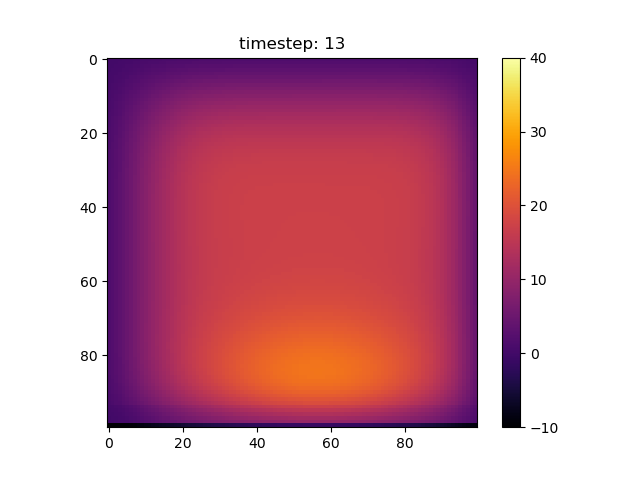
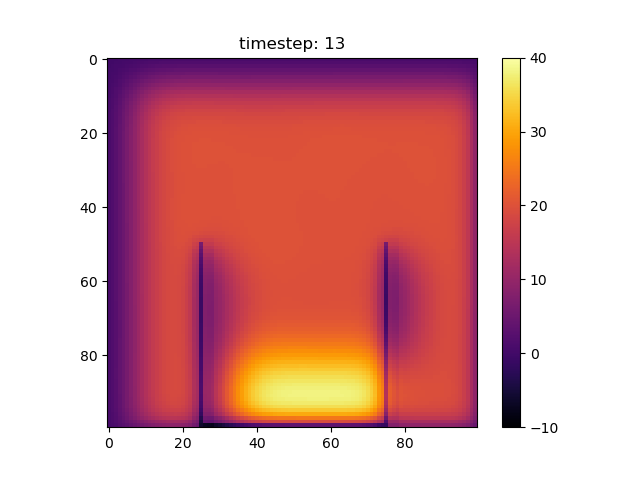
drifting persists

Changed region(s): [[0.1562, 0.1562, 0.75, 0.9062]]

diff --git a/physics.py b/physics.py
@@ -41,7 +41,7 @@ def timestepper(t,timesteps, in_raster, container_temp, filling_height, fill_tem
             plotter(filepath,raster,upper,lower,t)
 
         else:
-            print("Calculating diffusion...")
+            print("Calculating diffusion at step {}...".format(t))
 
             # calculate temperature diffusion
             raster = diffusion(raster, resX, resY, diffusion_index, container_temp, loss_over_time, t, diffusion_degree)
@@ -54,7 +54,6 @@ def timestepper(t,timesteps, in_raster, container_temp, filling_height, fill_tem
         t += 1
 
     return out_rasters
-
 
 
 # set up environmental raster
@@ -254,8 +253,8 @@ def diffusion(in_raster, resX, resY, diffusion_index, container_temp, loss_over_
 
     #set up a temporary raster to allow for energy transfer and pad the array to account for external influence
     temporary_raster = np.zeros(shape=(resX,resY))
-    temporary_raster[1:-1, 1:-1] = 0
-    temporary_raster[-1] = container_temp
+    #temporary_raster[1:-1, 1:-1] = 0
+    #temporary_raster[-1] = container_temp
 
 
     #loop through and calculate energy transfer per cell
@@ -267,21 +266,19 @@ def diffusion(in_raster, resX, resY, diffusion_index, container_temp, loss_over_
         #loop through columns
         while x < resY:
 
-            temporary_raster = decider_diffusion_temp(in_raster,temporary_raster,x,y, diffusion_index, diffusion_degree)
+            decider_diffusion_temp(in_raster,temporary_raster,x,y, diffusion_index, diffusion_degree)
 
             x+=1
 
-        #cooling = coolingRaster(resX, resY, container_temp)
-        #temporary_raster = np.add(temporary_raster, cooling)
+
         y+=1
 
-
-
-    # pad again
-    #temporary_raster[-1] = container_temp
-
-
     # add in_raster to temporary raster to compute diffusion of energy
+    temporary_raster = np.add(in_raster, temporary_raster)
+
+    cooling = coolingRaster(resX, resY, container_temp)
+    temporary_raster = np.add(temporary_raster, cooling)
+
 
     return temporary_raster
 
@@ -314,36 +311,28 @@ def decider_diffusion_temp(in_raster, temporary_raster, x, y, diffusion_index, d
 
     #get how many are legal (within bounds)
     division = len(neighs)
+    diff = pixel - (pixel * diffusion_index)
 
-    diff = ((1 - diffusion_index) * pixel) / division
-
-
+    #check that a double minus is not converted to plus
+    if diff < 0 and temporary_raster[x, y] <0:
+        temporary_raster[x,y] += diff
+    else:
+        temporary_raster[x,y] -= diff
 
     #diffuse
     for neigh in neighs:
+
         try:
-            if neigh[1] < 0 or neigh[1] < 0:
-                "pixel outta bounds 1"
-                pass
-            elif neigh[0] > res or neigh[1] > res:
-                "pixel outta bounds 2"
-                pass
+            #if index of target cell is in bounds, add diffusion value
+            temporary_raster[neigh[0], neigh[1]] += diff/division
 
-            else:
-                try:
-                    #if index of target cell is in bounds, add diffusion value
-                    temporary_raster[neigh[0], neigh[1]] += diff
+            # subtract diffusion value from original raster
 
-                    # subtract diffusion value from original raster
-                    in_raster[x,y] -= diff
 
-                except IndexError:
-                    #print("pixel outta bounds 3")
-                    pass
-
-        except IndexError:
-            print("pixel outta bounds 4")
+        except:
+            #print("pixel outta bounds 3")
             pass
+
 
     return temporary_raster
 

diff --git a/visualizer.py b/visualizer.py
@@ -14,15 +14,15 @@ from convectionModel.physics import *
 # raster size and timesteps
 resX = 100
 resY = resX
-timesteps = 20
+timesteps = 50
 container_temp = -10
 
 # fill temperature and height of pre-filled liquid as well as energy lost to the exterior of the system
 pre_fill = True
 fill_temp = 40
 filling_height = 0.75
-diffusion_index = 0.01
-diffusion_degree = 6
+diffusion_index = 0.005
+diffusion_degree = 3
 loss_over_time = 0
 
 # set up list to convert output to gif r
